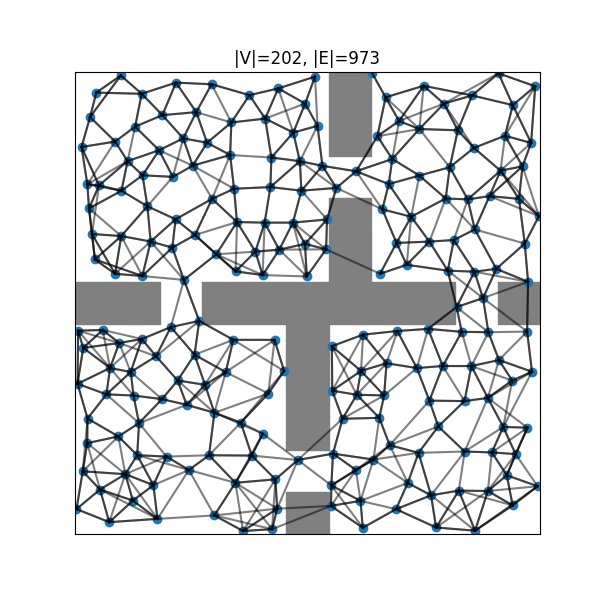
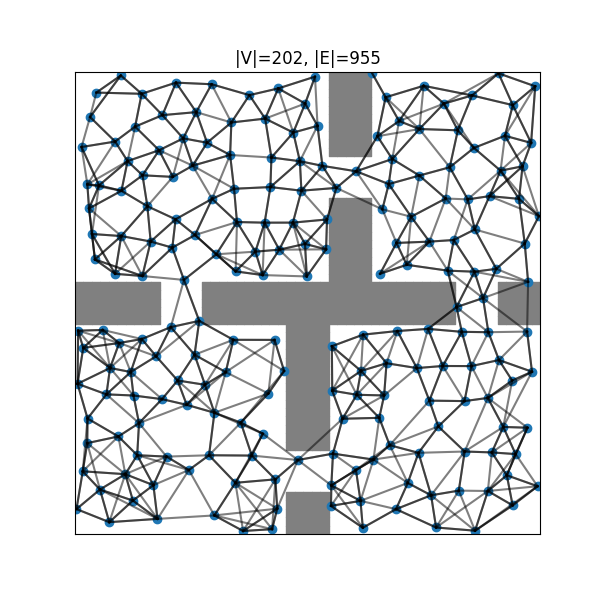
improve cleanup, sample goals from graph

diff --git a/pud/runner.py b/pud/runner.py
@@ -76,7 +76,8 @@ def take_cleanup_steps(search_policy, eval_env, num_cleanup_steps):
 
     search_policy.set_cleanup(True)
     cleanup_start = time.process_time()
-    Collector.eval_agent(search_policy, eval_env, num_cleanup_steps, by_episode=False)
+    # Collector.eval_agent(search_policy, eval_env, num_cleanup_steps, by_episode=False) # random goals in env
+    Collector.step_cleanup(search_policy, eval_env, num_cleanup_steps) # samples goals from nodes in state graph
     cleanup_end = time.process_time()
     search_policy.set_cleanup(False)
     cleanup_time = cleanup_end - cleanup_start
@@ -102,7 +103,7 @@ def cleanup_and_eval_search_policy(search_policy, eval_env, num_evals=10, diffic
     filtered_g, filtered_rb = search_policy.g.copy(), search_policy.rb_vec.copy()
 
     # Cleanup steps
-    num_cleanup_steps = 2500
+    num_cleanup_steps = int(1e4)
     cleanup_time = take_cleanup_steps(search_policy, eval_env, num_cleanup_steps)
     print(f'Took {num_cleanup_steps} cleanup steps in {cleanup_time:.2f} seconds')
 

diff --git a/pud/collector.py b/pud/collector.py
@@ -60,23 +60,22 @@ class Collector:
     @classmethod
     def step_cleanup(cls, search_policy, eval_env, num_steps):
         c = 0
-        while True:
+        while c < num_steps:
             goal = search_policy.get_goal_in_rb()
             state = eval_env.reset()
-            state['goal'] = goal
             done = False
 
-            while not done:
+            while True:
+                state['goal'] = goal
                 try:
                     action = search_policy.select_action(state)
                 except Exception as e:
                     raise e
 
                 state, reward, done, info = eval_env.step(np.copy(action))
-                state['goal'] = goal
                 c += 1
 
-                if done or search_policy.reached_final_waypoint:
+                if done or c >= num_steps or search_policy.reached_final_waypoint:
                     break
 
     @classmethod

diff --git a/README.md b/README.md
@@ -49,10 +49,10 @@ steps: 111
 <p align="center"><img src="./workdirs/uvfddpg_distributional1_ensemble3_rescale5/sgm_state_graph.png" width="275" alt="SGM state graph"></p>
 
 ```
-Initial SparseSearchPolicy (|V|=202, |E|=1894) has success rate 0.20, evaluated in 88.82 seconds
-Filtered SparseSearchPolicy (|V|=202, |E|=986) has success rate 0.80, evaluated in 44.53 seconds
-Took 2500 cleanup steps in 119.46 seconds
-Cleaned SparseSearchPolicy (|V|=202, |E|=973) has success rate 0.80, evaluated in 57.41 seconds
+Initial SparseSearchPolicy (|V|=202, |E|=1894) has success rate 0.20, evaluated in 57.72 seconds
+Filtered SparseSearchPolicy (|V|=202, |E|=986) has success rate 0.80, evaluated in 34.39 seconds
+Took 10000 cleanup steps in 344.87 seconds
+Cleaned SparseSearchPolicy (|V|=202, |E|=955) has success rate 1.00, evaluated in 27.10 seconds
 ```
 
 ## Credits
